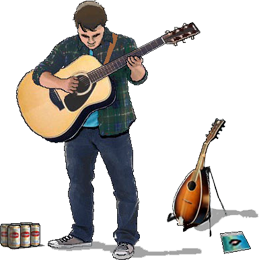
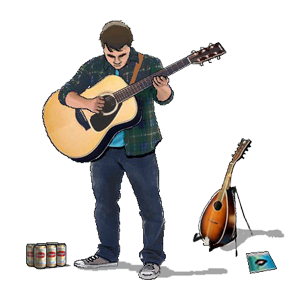
updated images for SA and uniform sizing

diff --git a/index.html b/index.html
@@ -54,7 +54,7 @@
                 <a href="screenplays.html"><img src="img/newlandfilms.png"></a>
             </div>
             <div class="phase-item">
-                <a href="screenplays.html"><img src="img/stupidart-big.png"></a>
+                <a href="screenplays.html"><img src="img/sa-b.png"></a>
             </div>
         </div>
         </div>
